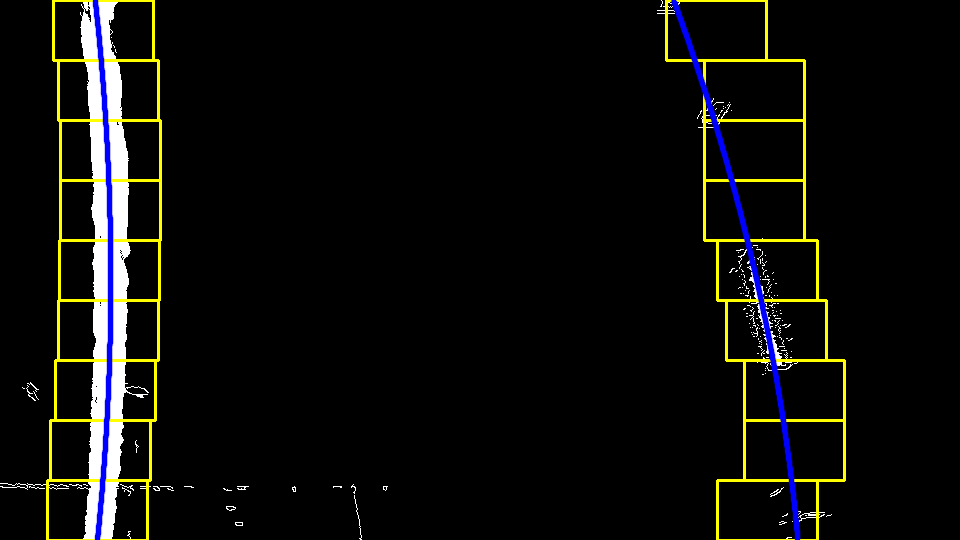
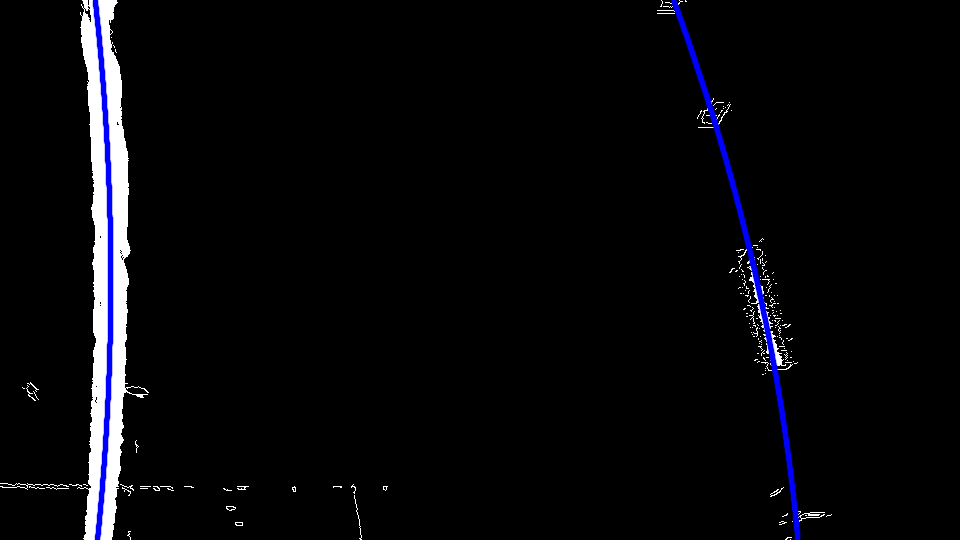
lanes found

diff --git a/lane-detection/preprocessing.py b/lane-detection/preprocessing.py
@@ -96,21 +96,21 @@ def sliding_window(img_path):
         win_xright_low  = max(rightx_current - margin, 0)
         win_xright_high = min(rightx_current + margin, W)
 
-        cv2.rectangle(
-            out_img,
-            (win_xleft_low, win_y_low),
-            (win_xleft_high, win_y_high),
-            (0, 255, 255),
-            2
-        )
+        # cv2.rectangle(
+        #     out_img,
+        #     (win_xleft_low, win_y_low),
+        #     (win_xleft_high, win_y_high),
+        #     (0, 255, 255),
+        #     2
+        # )
 
-        cv2.rectangle(
-            out_img,
-            (win_xright_low, win_y_low),
-            (win_xright_high, win_y_high),
-            (0, 255, 255),
-            2
-        )
+        # cv2.rectangle(
+        #     out_img,
+        #     (win_xright_low, win_y_low),
+        #     (win_xright_high, win_y_high),
+        #     (0, 255, 255),
+        #     2
+        # )
         good_left_inds = (
             (nonzeroy >= win_y_low) &
             (nonzeroy <  win_y_high) &
@@ -172,15 +172,30 @@ def polynomial_fit(t_matrix):
 
     img_size = (out_img.shape[1], out_img.shape[0])
     reverse_warp = cv2.warpPerspective(out_img, t_matrix, img_size)
-    cv2.imshow("lanes", reverse_warp)
-    cv2.waitKey(0)
+    cv2.imwrite("../data/lane_fit.png", reverse_warp)
 
+def overlay():
+    lanes = cv2.imread("../data/lane_fit.png")
+    og_img = cv2.imread("../data/lane5.png")
+    og_img = cv2.resize(og_img, (960, 540))
     
+    lanes_hsv = cv2.cvtColor(lanes, cv2.COLOR_BGR2HSV)
+    lower_blue = np.array([100, 150, 50])
+    upper_blue = np.array([130, 255, 255])
+    lane_mask = cv2.inRange(lanes_hsv, lower_blue, upper_blue)
+
+    replace = np.where(lane_mask > 0)
+    ys, xs = replace
+    overlay = og_img.copy()
+    overlay[ys,xs] = (255,0,0)
+    cv2.imshow("lanes", overlay)
+    cv2.waitKey(0)
 
 _,_, t_matrix = perspective_warp("../data/lane5.png")
 edge_detection("../data/birds_eye.png")
 polynomial_fit(t_matrix)
-leftx, lefty, rightx, righty, ans = sliding_window("../data/edges.png")
+overlay()
+# leftx, lefty, rightx, righty, ans = sliding_window("../data/edges.png")
 
 # cv2.imshow("sliding window", ans)
 # cv2.waitKey(0)
